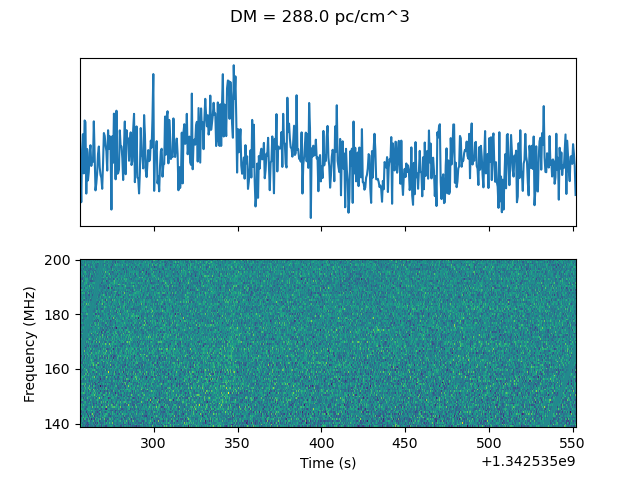
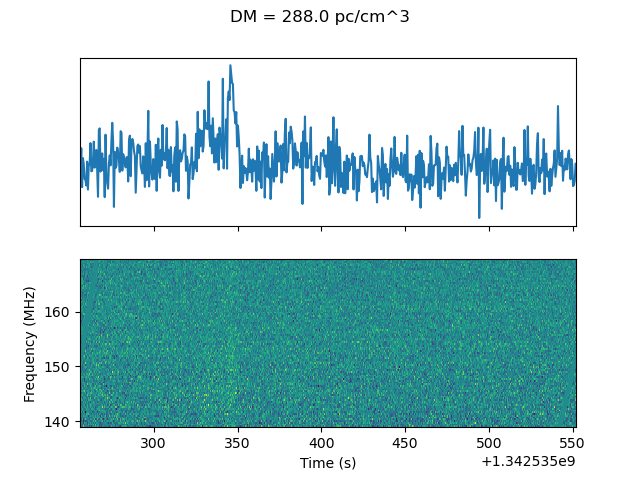
Implemented basic impulsive RFI masking

Changed region(s): [[0.0625, 0.5312, 0.9062, 0.9062], [0.125, 0.125, 0.9062, 0.4375]]

diff --git a/dynspec/dedisperse_dynspec.py b/dynspec/dedisperse_dynspec.py
@@ -10,7 +10,7 @@ def calc_dmdelay(DM, flo, fhi):
     return 4.148808e3*DM*(1/(flo*flo) - 1/(fhi*fhi))
 
 class Dynspec:
-    def __init__(self, filename, sample_time, freqlo, bw, transpose=False, time_offset=0, freq_offset=0, dm=0):
+    def __init__(self, filename, sample_time, freqlo, bw, transpose=False, time_offset=0, freq_offset=0, dm=0, mask_value=0):
         self.TIMEAXIS=1
         self.FREQAXIS=0
         self.load_dynspec(filename, transpose)
@@ -18,6 +18,7 @@ class Dynspec:
         self.create_freq_axis(bw, freqlo=freqlo)
         self.dm = dm # The initial DM of the loaded data
         self.fscrunched = None
+        self.mask_value = mask_value
 
     def load_dynspec(self, filename, transpose=False):
         # Load the data with NumPy
@@ -30,6 +31,14 @@ class Dynspec:
         # Record the dimensions of the array
         self.Nf = self.dynspec.shape[self.FREQAXIS]
         self.Nt = self.dynspec.shape[self.TIMEAXIS]
+
+    def mask_time_bins(self, time_bins):
+        if self.TIMEAXIS == 0:
+            for idx in time_bins:
+                self.dynspec[idx,:] = self.mask_value
+        else: # TIMEAXIS == 1
+            for idx in time_bins:
+                self.dynspec[:,idx] = self.mask_value
 
     def transpose(self):
         self.dynspec = self.dynspec.T
@@ -139,7 +148,12 @@ def main(args):
             freqlo=args.freqlo,
             bw=args.bw,
             time_offset=args.t0,
-            transpose=args.transpose)
+            transpose=args.transpose,
+            mask_value=args.mask_value)
+
+    # Apply any RFI masking
+    if args.mask_time_bins is not None:
+        dynspec.mask_time_bins(args.mask_time_bins)
 
     if len(args.dms) == 1:
         # In this case, only a single DM was given, so we don't
@@ -151,13 +165,17 @@ def main(args):
         dmcurve.run_dmtrials(args.dms, freq_ref=args.freq_ref)
         dmcurve.calc_best_dm()
 
-        if args.dmcurve_image == False:
+        if args.dmcurve_image is not None:
             # Plot the DM curve
             fig, ax = plt.subplots(nrows=1, ncols=1)
             ax.plot(dmcurve.dms, dmcurve.peak_snrs)
             ax.set_xlabel("DM (pc/cm^3)")
             ax.set_ylabel("Peak flux density (a.u.)")
-            plt.savefig(args.dmcurve_image)
+
+            if args.dmcurve_image == "SHOW":
+                plt.show()
+            else:
+                plt.savefig(args.dmcurve_image)
 
         DM = dmcurve.best_dm[0]
 
@@ -172,7 +190,10 @@ def main(args):
         dynspec.plot(axs[1])
         fig.suptitle('DM = {:.1f} pc/cm^3'.format(DM))
         axs[0].set_yticks([])
-        plt.savefig(args.dynspec_image)
+        if args.dynspec_image == "SHOW":
+            plt.show()
+        else:
+            plt.savefig(args.dynspec_image)
 
     # If requested, write out a time series of the frequency-scrunched
     # lightcurve
@@ -200,18 +221,20 @@ if __name__ == "__main__":
     # Parse the command line
     parser = argparse.ArgumentParser(description='Dedisperse a dynamic spectrum')
     parser.add_argument('--dms', type=float, nargs='*', help='DM trials (pc/cm^3) [[start=0], stop, [step=1]] (i.e. same argument structure as s NumPy''s arange function). If a single value is given, the dynamic spectrum is dedispersed to this DM and no search is performed')
-    parser.add_argument('--sample_time', type=float, default=0.5, help='The time of one sample (s)')
+    parser.add_argument('--sample_time', type=float, default=1, help='The time of one sample (s)')
     parser.add_argument('--freqlo', type=float, default=139.52, help='The centre frequency of the lowest channel (MHz)')
     parser.add_argument('--freq_ref', type=str, default='centre', help='The reference frequency used during dedispersion. Either a frequency in MHz, or one of [\'low\', \'centre\', \'high\'] (default=\'centre\')')
     parser.add_argument('--bw', type=float, default=1.28, help='The channel width (MHz)')
-    parser.add_argument('--output', type=argparse.FileType('w'), help='The file to which the dedispersed dynamic spectrum data will be written')
-    parser.add_argument('--dynspec_image', type=str, help='The file to which the dedispersed dynamic spectrum image will be saved')
+    parser.add_argument('--output', type=argparse.FileType('w'), help='The file to which the dedispersed dynamic spectrum data will be written. If set to SHOW, then the image is shown (plt.show()) instead.')
+    parser.add_argument('--dynspec_image', type=str, help='The file to which the dedispersed dynamic spectrum image will be saved. If set to SHOW, then the image is shown (plt.show()) instead.')
     parser.add_argument('--dmcurve_image', type=str, help='The file to which the DM curve image will be saved')
     parser.add_argument('--input', type=str, help='The (NumPy-readable) file containing the input dynamic spectrum')
     parser.add_argument('--transpose', action='store_true', help='Interpret the input file as rows for time axis, columns for frequency axis')
     parser.add_argument('--lightcurve', type=argparse.FileType('w'), help='Write out the frequency-scrunched, dispersion-corrected lightcurve to the named file. "Dispersion-corrected" means using infinite frequency as reference')
     parser.add_argument('--t0', type=float, default=0, help='The left (early) edge of the first time bin')
     parser.add_argument('--bc_corr', type=float, default=0, help='Barycentric correction to apply (in seconds)')
+    parser.add_argument('--mask_time_bins', type=int, nargs='*', help='Mask these time bins (expecting ints)')
+    parser.add_argument('--mask_value', type=float, default=0.0, help='The value to use for masked bins/frequencies')
 
     args = parser.parse_args()
 
